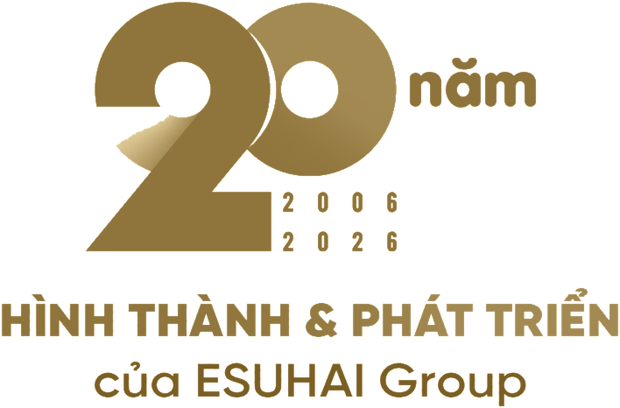
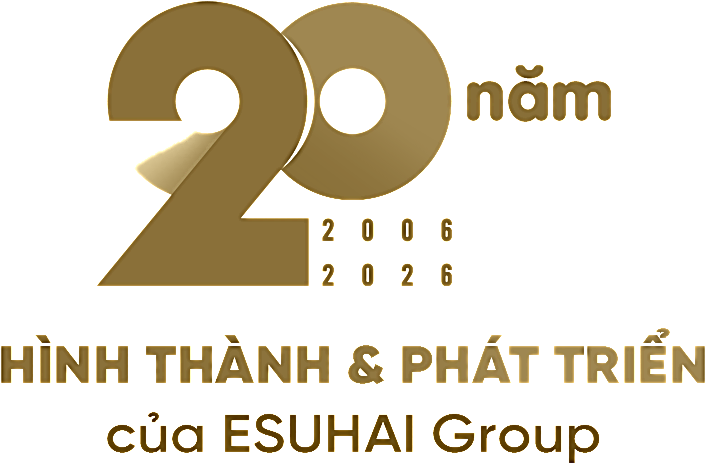
[R0] Nắp phong bì FULL SCREEN + emblem "20 năm" cắt lại sắc nét
Đối chiếu thay đổi (cả 2 trang):
• Màn mở thiệp:
    Trước: nắp phong bì nhỏ (~320px) căn giữa.
    Sau:   NẮP FULL SCREEN — tam giác line vàng phủ full chiều ngang, cao ~58vh, có đường
           gấp giữa + đổ bóng; con dấu ~150px ngay chóp nắp (giữa màn).
• Emblem "20 năm":
    Trước: hơi mờ.
    Sau:   CẮT LẠI độ phân giải cao + làm nét (UnsharpMask) — chữ rõ ràng, sắc.

Giữ nguyên (luật R0): form, collect(), payload, honeypot, /api/rsvp.

diff --git a/dang-ky.html b/dang-ky.html
@@ -659,6 +659,15 @@
   /* emblem "20 năm" vàng trong phần thông điệp */
   .emblem-20nam{display:block;width:min(320px,66vw);height:auto;margin:26px auto 0;
     filter:drop-shadow(0 6px 16px rgba(0,0,0,.42))}
+
+  /* ===== R0 · NẮP PHONG BÌ FULL SCREEN ===== */
+  .intro-content{justify-content:flex-start;padding:max(22px,env(safe-area-inset-top)) 0 0}
+  .envelope{width:100%;max-width:none;margin:0;position:relative}
+  .env-flap-svg{display:block;width:100%;height:min(58vh,80vw);filter:drop-shadow(0 24px 40px rgba(0,0,0,.55))}
+  .envelope .wax-seal{position:absolute;left:50%;top:min(58vh,80vw);transform:translate(-50%,-50%);
+    width:150px;height:150px;margin:0;z-index:3;animation:none;filter:drop-shadow(0 12px 18px rgba(0,0,0,.6))}
+  @media(max-width:520px){.envelope .wax-seal{width:122px;height:122px}}
+  .intro-content .intro-btn{margin-top:104px;position:relative;z-index:3}
 </style>
 </head>
 <body class="gate-lock">
@@ -680,7 +689,7 @@
   
   <div class="intro-content">
     <div class="envelope">
-      <svg class="env-flap-svg" viewBox="0 0 300 150" preserveAspectRatio="none" aria-hidden="true"><defs><linearGradient id="flapG" x1="0" y1="0" x2="0" y2="1"><stop offset="0" stop-color="rgba(255,246,220,.10)"/><stop offset="1" stop-color="rgba(0,0,0,.34)"/></linearGradient></defs><path d="M4 4 H296 L150 146 Z" fill="url(#flapG)" stroke="#d8b876" stroke-width="1.3" stroke-linejoin="round"/></svg>
+      <svg class="env-flap-svg" viewBox="0 0 100 100" preserveAspectRatio="none" aria-hidden="true"><defs><linearGradient id="flapG" x1="0" y1="0" x2="0" y2="1"><stop offset="0" stop-color="rgba(255,246,220,.08)"/><stop offset="1" stop-color="rgba(0,0,0,.42)"/></linearGradient></defs><path d="M0 0 H100 L50 100 Z" fill="url(#flapG)" stroke="#d8b876" stroke-width="1.4" vector-effect="non-scaling-stroke" stroke-linejoin="round"/><path d="M50 0 V100" stroke="rgba(216,184,118,.16)" stroke-width="1" vector-effect="non-scaling-stroke"/></svg>
       <div class="wax-seal"><span class="wax-emblem"><span class="wax-inf" aria-hidden="true"></span><span class="wax-20th">20<sup>th</sup></span></span></div>
     </div>
     

diff --git a/tiec-toi.html b/tiec-toi.html
@@ -659,6 +659,15 @@
   /* emblem "20 năm" vàng trong phần thông điệp */
   .emblem-20nam{display:block;width:min(320px,66vw);height:auto;margin:26px auto 0;
     filter:drop-shadow(0 6px 16px rgba(0,0,0,.42))}
+
+  /* ===== R0 · NẮP PHONG BÌ FULL SCREEN ===== */
+  .intro-content{justify-content:flex-start;padding:max(22px,env(safe-area-inset-top)) 0 0}
+  .envelope{width:100%;max-width:none;margin:0;position:relative}
+  .env-flap-svg{display:block;width:100%;height:min(58vh,80vw);filter:drop-shadow(0 24px 40px rgba(0,0,0,.55))}
+  .envelope .wax-seal{position:absolute;left:50%;top:min(58vh,80vw);transform:translate(-50%,-50%);
+    width:150px;height:150px;margin:0;z-index:3;animation:none;filter:drop-shadow(0 12px 18px rgba(0,0,0,.6))}
+  @media(max-width:520px){.envelope .wax-seal{width:122px;height:122px}}
+  .intro-content .intro-btn{margin-top:104px;position:relative;z-index:3}
 </style>
 </head>
 <body class="gate-lock">
@@ -680,7 +689,7 @@
   
   <div class="intro-content">
     <div class="envelope">
-      <svg class="env-flap-svg" viewBox="0 0 300 150" preserveAspectRatio="none" aria-hidden="true"><defs><linearGradient id="flapG" x1="0" y1="0" x2="0" y2="1"><stop offset="0" stop-color="rgba(255,246,220,.10)"/><stop offset="1" stop-color="rgba(0,0,0,.34)"/></linearGradient></defs><path d="M4 4 H296 L150 146 Z" fill="url(#flapG)" stroke="#d8b876" stroke-width="1.3" stroke-linejoin="round"/></svg>
+      <svg class="env-flap-svg" viewBox="0 0 100 100" preserveAspectRatio="none" aria-hidden="true"><defs><linearGradient id="flapG" x1="0" y1="0" x2="0" y2="1"><stop offset="0" stop-color="rgba(255,246,220,.08)"/><stop offset="1" stop-color="rgba(0,0,0,.42)"/></linearGradient></defs><path d="M0 0 H100 L50 100 Z" fill="url(#flapG)" stroke="#d8b876" stroke-width="1.4" vector-effect="non-scaling-stroke" stroke-linejoin="round"/><path d="M50 0 V100" stroke="rgba(216,184,118,.16)" stroke-width="1" vector-effect="non-scaling-stroke"/></svg>
       <div class="wax-seal"><span class="wax-emblem"><span class="wax-inf" aria-hidden="true"></span><span class="wax-20th">20<sup>th</sup></span></span></div>
     </div>
     
